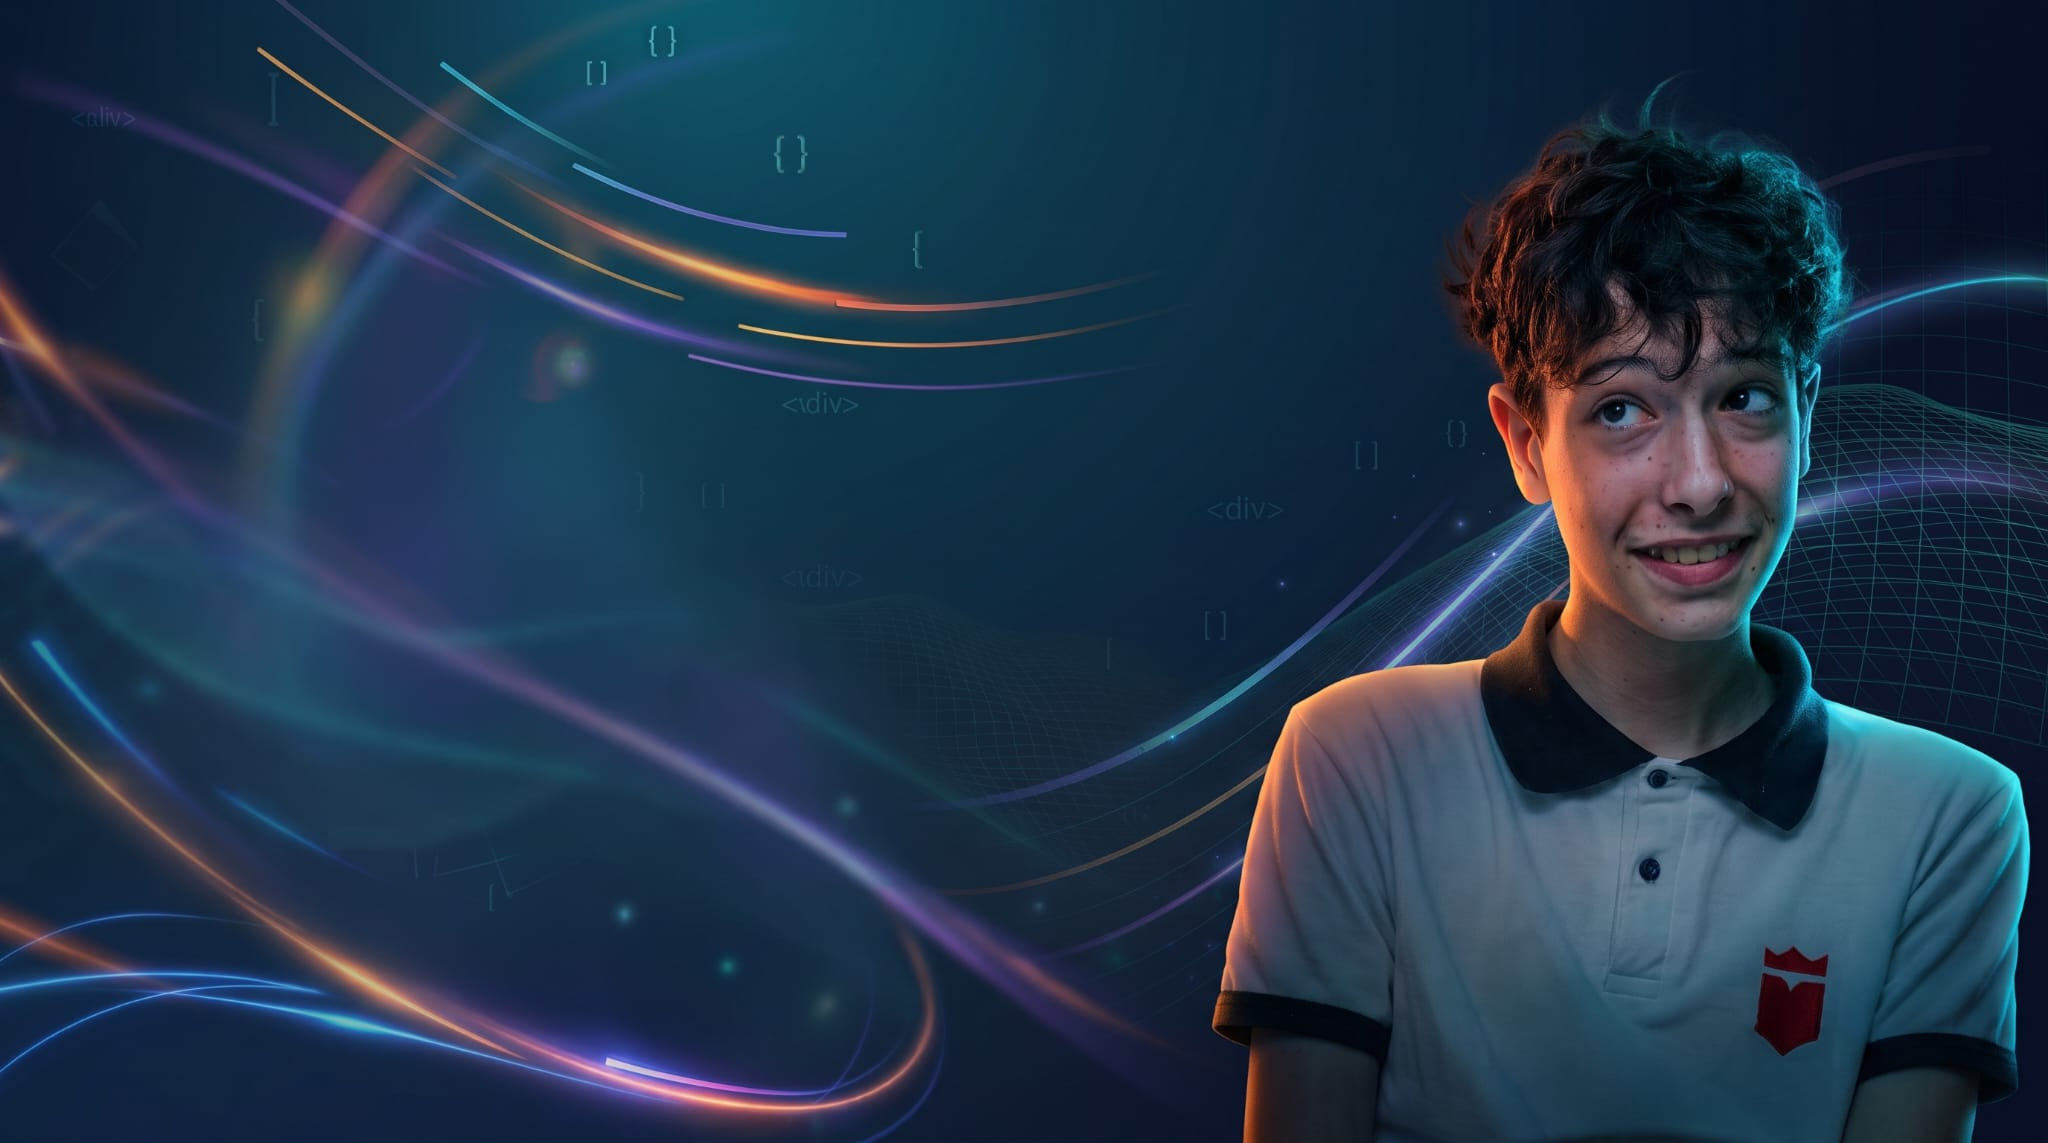
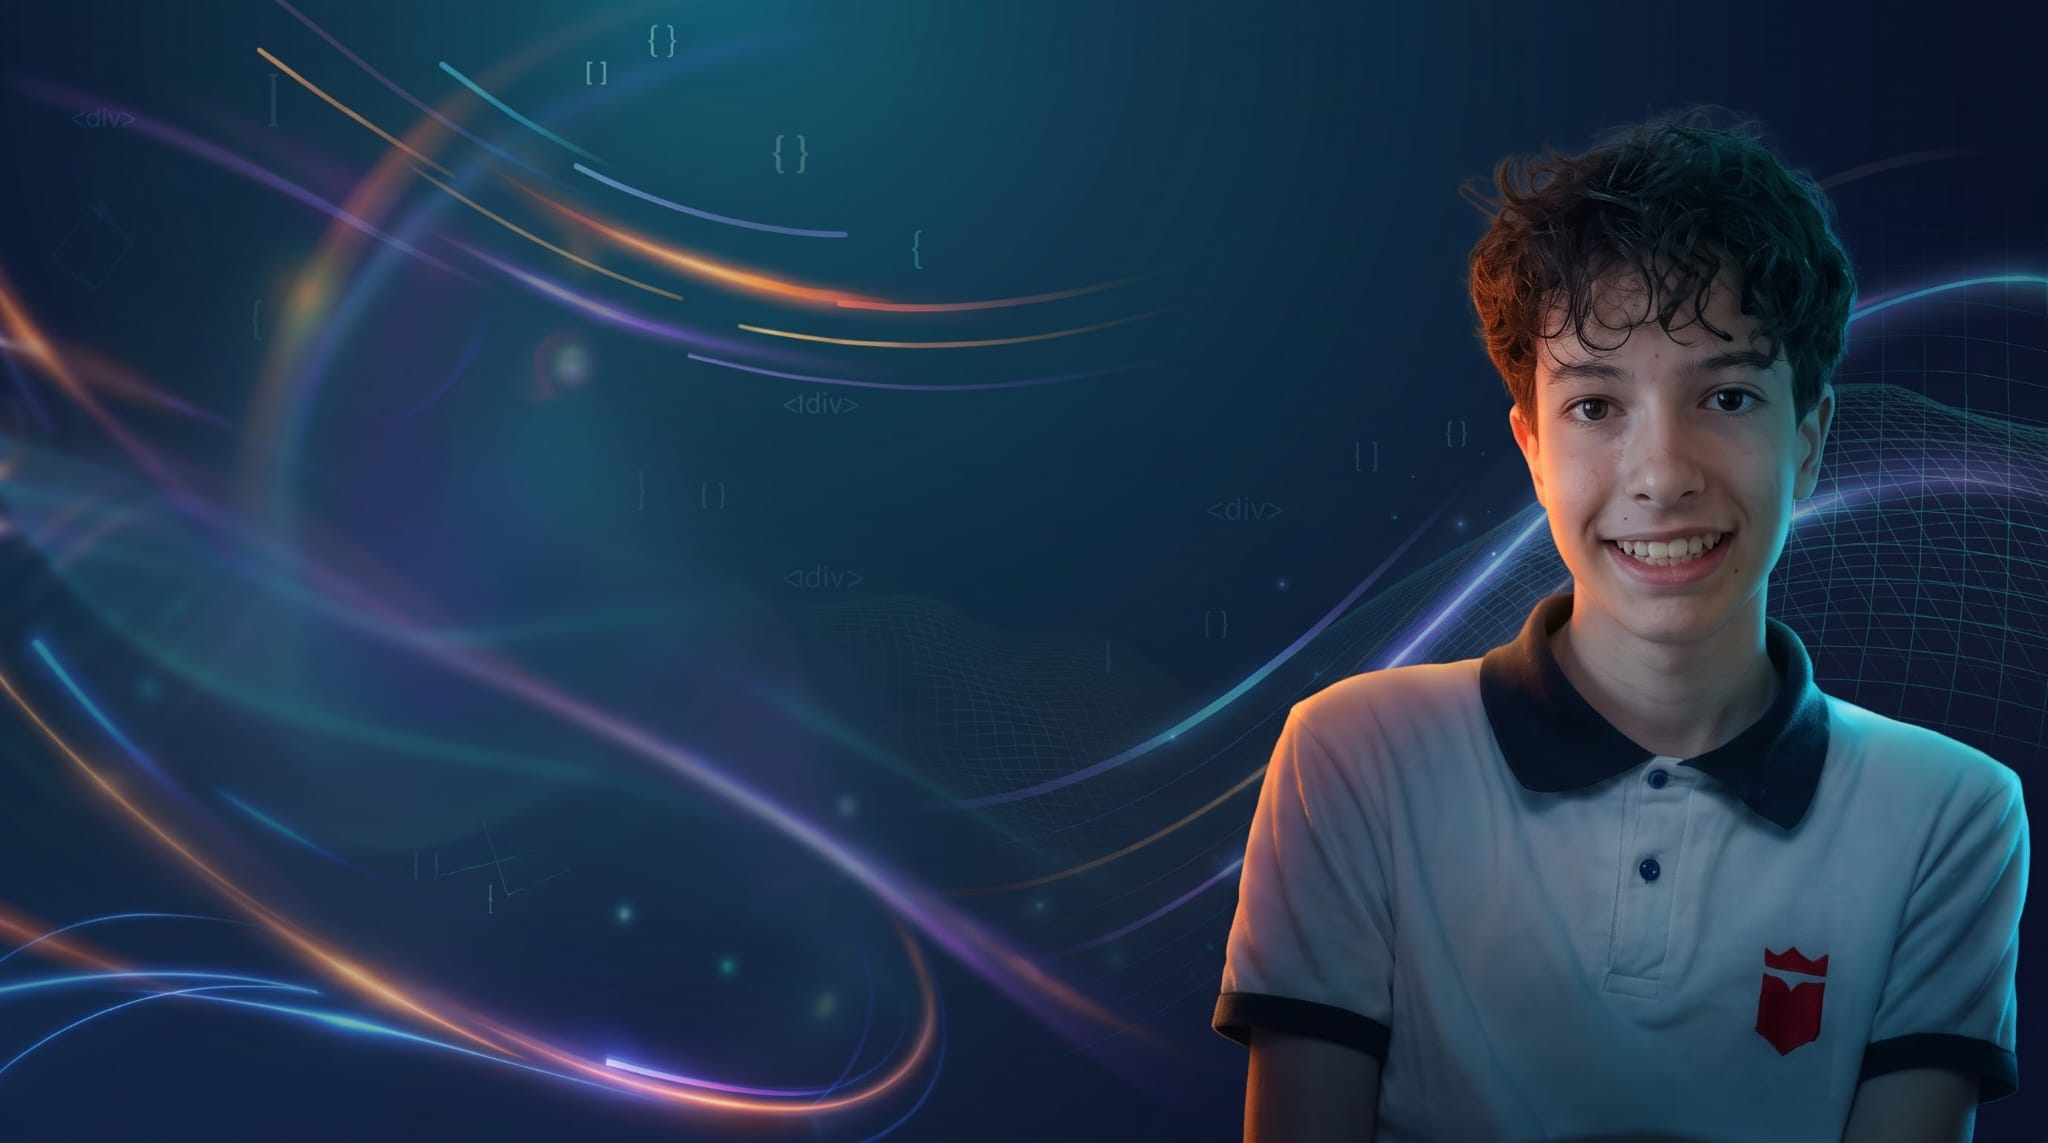
My first website :)

Changed region(s): [[0.6875, 0.0919, 0.9375, 0.6737], [0.375, 0.245, 0.5, 0.3062], [0.3125, 0.9186, 0.3438, 0.9493]]

diff --git a/index.html b/index.html
@@ -1,0 +1,35 @@
+<!DOCTYPE html>
+<html lang="en">
+<head>
+    <link rel="stylesheet" href="styles.css">
+    <meta charset="UTF-8">
+    <meta name="viewport" content="width=device-width, initial-scale=1.0">
+    <title>Nolan's playground</title>
+</head>
+<body>
+    <div id="header">
+        <h1>Hi, I'm <b>Nolan.</b></h1>
+        <div class="highlight">6th grade | King George School | HTML playground</div>
+        <p>Welcome to my very first website, built using HTML & CSS to show what I've been learning!</p>
+    </div>
+
+    <div id="passions">
+        <h2>My passions</h2>
+        <div class="row">
+            <div class="item">
+                <h3>Basketball</h3>
+                <p>Playing competitive basketball, improving mechanics.</p>
+            </div>
+            <div class="item">
+                <h3>Chess</h3>
+                <p>I like playing fast chess and training against bots.</p>
+            </div>
+            <div class="item">
+                <h3>Coding</h3>
+                <p>Learning programming since the first grade, building games with python at Logiscool.</p>
+            </div>
+        </div>
+    </div>
+
+</body>
+</html>

diff --git a/styles.css b/styles.css
@@ -1,0 +1,64 @@
+* {
+    border: 0;
+    padding: 0;
+    margin: 0;
+}
+
+body {
+    font-family: Arial, Helvetica, sans-serif;
+    background-image: url("pictures/nolanbg.jpg");
+    background-position: right bottom;
+    background-repeat: no-repeat;
+    min-height: 100vh; /* forteaza sa fie cat ecranul tot body indiferent de cat continut ca sa se alinieze corect fundalul */
+    background-size:cover;
+    color: rgb(200, 200, 200);
+    margin-top: 80px;
+    padding: 0px 80px;
+    overflow: hidden;
+}
+
+#header {
+    width: 540px;
+}
+h1 {
+    font-size: 80px;
+}
+
+b {
+    color: orange;
+}
+
+.highlight {
+    background-color: #6666ff66;
+    padding: 8px 16px;
+
+    border: 2px solid #6666ff;
+    border-radius: 20px; 
+}
+
+#header p {
+    padding: 16px;
+}
+
+#passions {
+    padding: 16px;
+}
+
+.row {
+    margin-top: 16px;
+    display: flex;
+    gap: 16px;
+}
+
+.item {
+    width: 180px;
+    border-radius: 8px;
+    background-color: #88888822;
+    border: 2px solid #9999BB;
+    padding: 16px;
+    backdrop-filter: blur(10px);
+}
+
+.item p {
+    margin-top: 8px;
+}
